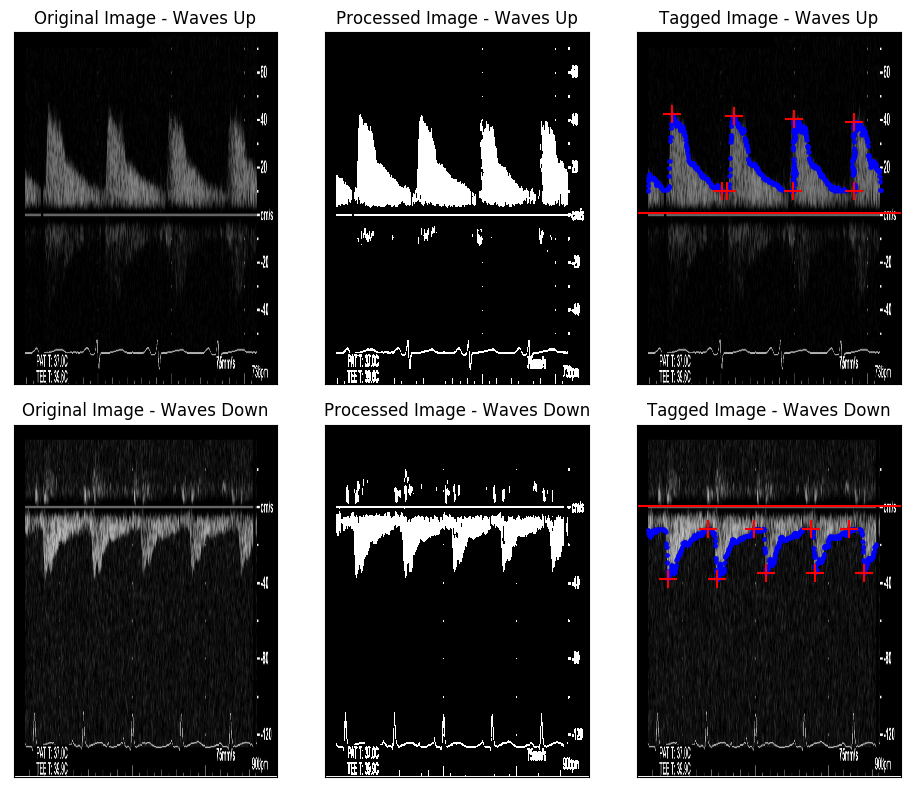
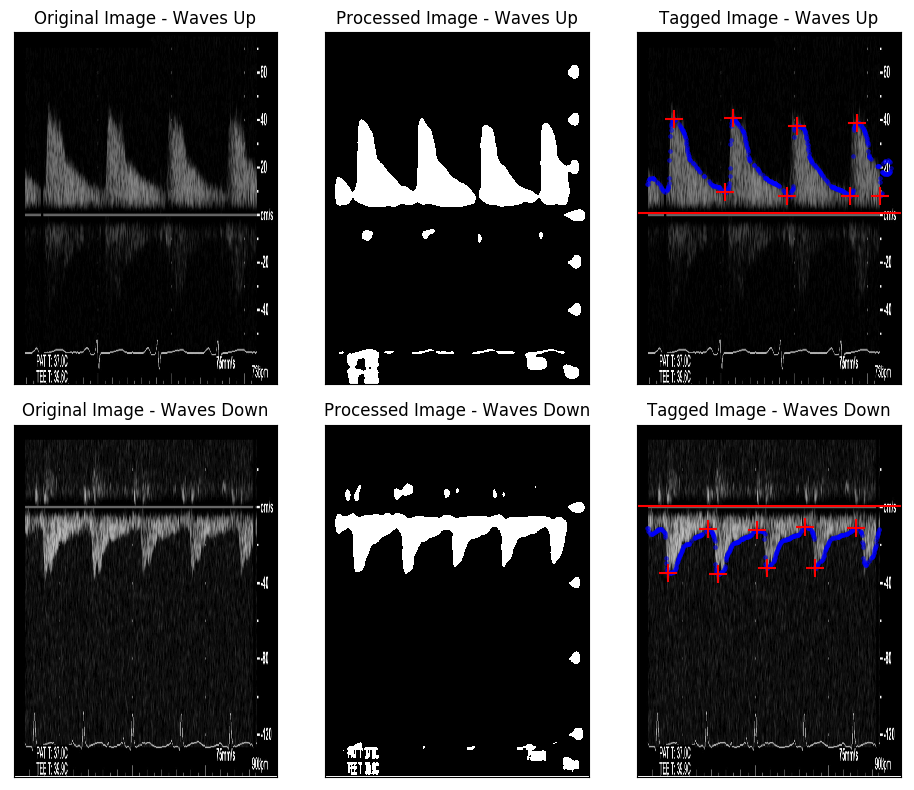
(1) Added differential gaussian blur with dynamic selection of the location at which to change kernal size. This is done to aid in the removal of excessive noise in the wave bases. Bases are blurred with a larger kernal while peaks are blurred with a smaller kernal to maintain thin peak structures.
(2) Added dynamic selection of the threshold location at which to
filter contours. This is selected as the row with the maximum pixel
value.

diff --git a/image_tagging/RRITagger.py b/image_tagging/RRITagger.py
@@ -16,7 +16,7 @@ class RRITagger:
     def __init__(self):
         self.name = ""
 
-    def tag_image(self, name, bl_diff=60, lookahead=50, delta=50):
+    def tag_image(self, name, lookahead=50, delta=50):
         """
         Fully process a static RRI image.
 
@@ -24,9 +24,6 @@ class RRITagger:
         ----------
         name : string
             File path to static renal Doppler image.
-
-        bl_diff : int | default = 60
-            Distance (in pixels) from baseline to first contours.
 
         lookahead : int | default = 50
             Distance (in pixels) to lookahead when assessing peak/trough
@@ -44,11 +41,10 @@ class RRITagger:
         """
         image = cv2.imread(name, 0)
         baseline = self.find_baseline(image)
-        processed_image = self.pre_process(image)
+        processed_image = self.pre_process(image, baseline)
         contours = self.find_contours(processed_image)
         filtered_contours = self.filter_contours(processed_image,
-                                                 contours, baseline,
-                                                 bl_diff)
+                                                 contours, baseline)
         peaks = self.find_peaks(filtered_contours, lookahead, delta)
 
         return RRITaggedImage(image=image, processed_image=processed_image,
@@ -56,10 +52,19 @@ class RRITagger:
                               contours=filtered_contours,
                               peaks=peaks)
 
-    def pre_process(self, image):
+    def pre_process(self, image, baseline):
         """
         Pre-process grayscale image using the following steps:
-        (1) Filter with a 5x5 gaussian kernal.
+        (1) Filter with a gaussian blur. This is done with two different
+        kernal sizes.
+            (a) The area of the image containing the wave peaks is
+            filtered using an 11x11 kernal, while the area containing the wave
+            bases is filtered using a 41x41 kernal. This is done to ensure
+            removal of contour noise in the wave bases.
+            (b) The location at which to switch kernal sizes is determined by
+            finding the first row of pixels where the maximum string of
+            black pixels is > 100. This identifies the location where waves
+            have separated into peaks, with distinct black spaces between them.
         (2) Apply Otsu thresholding.
 
         Parameters
@@ -67,15 +72,76 @@ class RRITagger:
         image : np.array()
             Object returned from call to cv2.imread().
 
+        baseline : float
+            Y-coordinate of image baseline. Used here to calculate the
+            location at which to switch the gaussian blur kernal size.
+
         Returns
         -------
         thresh_image : np.array(), values are 0 or 255
             Processed image.
         """
 
-        blur_image = cv2.GaussianBlur(image, (5, 5), 0)
-        ret, thresh_image = cv2.threshold(blur_image, 0, 255,
-                                     cv2.THRESH_BINARY + cv2.THRESH_OTSU)
+        image_above_bl = image[0:baseline, :]
+        image_below_bl = image[baseline:960, :]
+
+        if np.mean(image_above_bl) > np.mean(image_below_bl):
+            valid_side = image_above_bl
+        else:
+            valid_side = image_below_bl
+
+        valid_side_trim = valid_side[:, 30:665]
+
+        # Count consecutive black pixels by row
+        consecutive_black = []
+        for row in valid_side_trim:
+            length, count = [], 0
+            condition = row == 0
+            for i in range(len(condition)):
+                if condition[i] == True:
+                    count += 1
+                elif condition[i] == False and count > 0:
+                    length.append(count)
+                    count = 0
+
+                if i == len(condition) - 1 and count > 0:
+                    length.append(count)
+                if i == len(condition) - 1 and count == 0:
+                    length.append(0)
+
+            consecutive_black.append(np.max(length))
+
+        if np.mean(image_above_bl) > np.mean(image_below_bl):
+            consecutive_black.reverse()
+        else:
+            pass
+
+        # Find the first row in which the maximum consecutive string of black
+        # pixels exceeds 100. This row must occur after the row with the
+        # minimum length of consecutive black pixels to ensure the row
+        # between the baseline and wave base is not incorrectly selected.
+        consecutive_black = np.array(consecutive_black)
+        min_black = np.argmin(consecutive_black)
+        black_above = np.asarray(np.where(consecutive_black > 100))
+        ideal_black_above = black_above[np.where(black_above > min_black)]
+        blur_threshold = np.min(ideal_black_above)
+
+        if np.mean(image_above_bl) > np.mean(image_below_bl):
+            top_img = image[0:(baseline - blur_threshold), :]
+            bottom_img = image[(baseline - blur_threshold):960, :]
+            blur_top = cv2.GaussianBlur(top_img, (11, 11), 0)
+            blur_bottom = cv2.GaussianBlur(bottom_img, (41, 41), 0)
+
+        else:
+            bottom_img = image[(baseline + blur_threshold):960, :]
+            top_img = image[0:(baseline + blur_threshold), :]
+            blur_top = cv2.GaussianBlur(top_img, (41, 41), 0)
+            blur_bottom = cv2.GaussianBlur(bottom_img, (11, 11), 0)
+
+        blur_img = np.vstack((blur_top, blur_bottom))
+
+        ret, thresh_image = cv2.threshold(blur_img, 0, 255,
+                                          cv2.THRESH_BINARY + cv2.THRESH_OTSU)
 
         return thresh_image
 
@@ -115,7 +181,7 @@ class RRITagger:
 
         Parameters
         ----------
-        image : np.array(), values are 0 or 255
+        processed_image : np.array(), values are 0 or 255
             Processed image.
 
         Returns
@@ -129,14 +195,13 @@ class RRITagger:
 
         return contours
 
-    def filter_contours(self, processed_image, contours, baseline,
-                        bl_diff=60):
+    def filter_contours(self, processed_image, contours, baseline):
         """
         Filter identified contours using the following steps:
         (1) Identify the location of prominent waves (above vs. below baseline).
-        (2) Remove contours on opposite side of baseline + buffer to avoid
-        identification of the bottom of waves.
-        (3) Remove contours with length < a certain value to reduce noise.
+        (2) Remove contours with length < a certain value to reduce noise.
+        (3) Identify ideal buffer from baseline at which to start contour
+        filter. This is currently based on the row with the maximum pixel value.
         (4) Remove contours associated with EKG strip at bottom of image.
 
         Parameters
@@ -155,7 +220,7 @@ class RRITagger:
         filtered_contours : np.array
             Array of all filtered contours (x-coord, y-coord)
         """
-
+        # Filter out short contours (i.e. noise)
         long = [elem for elem in contours if len(elem) > 100]
         long = np.squeeze(
             np.vstack(long)
@@ -167,17 +232,83 @@ class RRITagger:
         long_contours = np.column_stack((long_contours_x,
                                          long_contours_y))
 
+        # Find position of waves relative to baseline
         image_above_bl = processed_image[0:baseline, :]
         image_below_bl = processed_image[baseline:960, :]
 
         if np.mean(image_above_bl) > np.mean(image_below_bl):
+            valid_side = image_above_bl
+        else:
+            valid_side = image_below_bl
+
+        # Trim off black margins
+        valid_side_trim = valid_side[:, 30:665]
+
+        # Find row with highest pixel value to identify where to filter
+        # contours
+        mean_intensity = []
+        for row in valid_side_trim:
+            mean_intensity.append(np.mean(row))
+        if np.mean(image_above_bl) > np.mean(image_below_bl):
+            mean_intensity.reverse()
+
+        bl_threshold = mean_intensity.index(np.max(mean_intensity))
+
+        # Alt option for finding bl_threshold - using consecutive black pixels:
+
+        # consecutive_black = []
+        # for row in valid_side_trim:
+        #     length, count = [], 0
+        #     condition = row == 0
+        #     for i in range(len(condition)):
+        #         if condition[i] == True:
+        #             count += 1
+        #         elif condition[i] == False and count > 0:
+        #             length.append(count)
+        #             count = 0
+        #
+        #         if i == len(condition) - 1 and count > 0:
+        #             length.append(count)
+        #         if i == len(condition) - 1 and count == 0:
+        #             length.append(0)
+        #
+        #     consecutive_black.append(np.max(length))
+        #
+        # consecutive_black.reverse()
+        #
+        # consecutive_black = consecutive_black[20:100]
+        # bl_threshold = consecutive_black.index(np.min(consecutive_black)) + 20
+
+        # Set filter threshold
+        if np.mean(image_above_bl) > np.mean(image_below_bl):
             filtered_contours = \
-                long_contours[long_contours[:, 1] < baseline - bl_diff]
+                long_contours[long_contours[:, 1] < (baseline - bl_threshold)]
+            direction = "up"
         else:
             filtered_contours = \
-                long_contours[long_contours[:, 1] > baseline + bl_diff]
+                long_contours[long_contours[:, 1] > (baseline + bl_threshold)]
             filtered_contours = \
                 filtered_contours[filtered_contours[:, 1] < 750]
+            direction = "down"
+
+        # Function to filter out redundant contour coordinate pairs
+        # If waves are up, removes all but the highest Y-value;
+        # If waves are down, removes all but the lowest Y-value
+        def grouby_Y(a, dir_waves):
+            # Sort by x-coordinate
+            b = a[
+                a[:, 0].argsort()]
+            # Find all unique x-coordinates
+            grp_idx = np.flatnonzero(np.r_[True, (b[:-1, 0] != b[1:, 0])])
+            # Find max and min Y for all unique x-coordinates
+            grp_maxY = np.maximum.reduceat(b[:, 1], grp_idx)
+            grp_minY = np.minimum.reduceat(b[:, 1], grp_idx)
+            if dir_waves == "up":
+                return np.c_[b[grp_idx, 0], grp_maxY]
+            elif dir_waves == "down":
+                return np.c_[b[grp_idx, 0], grp_minY]
+
+        filtered_contours = grouby_Y(filtered_contours, direction)
 
         return filtered_contours
 

diff --git a/examples/plot_tags.py b/examples/plot_tags.py
@@ -34,9 +34,9 @@ tagger = RRITagger()
 # Call tag_image method on two images (one with waves above baseline and one
 # with waves below baseline)
 taggedImage_up = tagger.tag_image(name="images/01_original.jpg",
-                                  bl_diff=60, lookahead=50, delta=50)
+                                  lookahead=20, delta=50)
 taggedImage_down = tagger.tag_image(name="images/05_original.jpg",
-                                    bl_diff=60, lookahead=50, delta=50)
+                                    lookahead=20, delta=50)
 
 # Generate figure with 2x3 row/column structure showing (1) original grayscale
 # images; (2) pre-processed images and (3) final tagged imges
@@ -48,7 +48,7 @@ plt.title('Original Image - Waves Up')
 plt.xticks([]), plt.yticks([])
 
 plt.subplot(232)
-plt.imshow(tagger.pre_process(taggedImage_up.image), cmap="gray")
+plt.imshow(taggedImage_up.processed_image, cmap="gray")
 plt.title('Processed Image - Waves Up')
 plt.xticks([]), plt.yticks([])
 
@@ -62,7 +62,7 @@ plt.title('Original Image - Waves Down')
 plt.xticks([]), plt.yticks([])
 
 plt.subplot(235)
-plt.imshow(tagger.pre_process(taggedImage_down.image), cmap="gray")
+plt.imshow(taggedImage_down.processed_image, cmap="gray")
 plt.title('Processed Image - Waves Down')
 plt.xticks([]), plt.yticks([])
 

diff --git a/image_tagging/RRITaggedImage.py b/image_tagging/RRITaggedImage.py
@@ -12,7 +12,7 @@ class RRITaggedImage:
 
     def __init__(self, image, processed_image, baseline, contours, peaks):
         self.image = image
-        self.processed_image = processed_image,
+        self.processed_image = processed_image
         self.baseline = baseline
         self.contours = contours
         self.peaks = peaks
@@ -49,7 +49,7 @@ class RRITaggedImage:
         marker_width = ([0.5] * contours_length) + \
                        ([4] * peaks_length)
 
-        marker_alpha = ([0.75] * contours_length) + \
+        marker_alpha = ([0.5] * contours_length) + \
                        ([1] * peaks_length)
 
         plt.imshow(self.image, cmap="gray")
